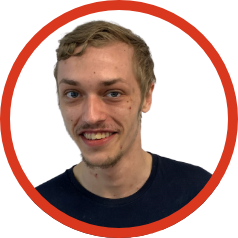
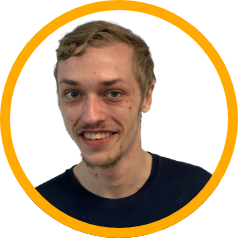
Team member img change, nav dropdown and anchor fix on water

Changed region(s): [[0.0, 0.0, 1.0, 1.0]]

diff --git a/public/css/site.css b/public/css/site.css
@@ -551,7 +551,8 @@ input:not([type=submit], [type=button], [type=reset])::-webkit-input-placeholder
 
 body.residential header,
 body.residential nav,
-body.residential #navbarSupportedContent
+body.residential #navbarSupportedContent,
+body.residential #nav-dropdown
 {
     background-color: #f3f2f1;
 }
@@ -574,7 +575,8 @@ body.residential .navigation-link-current-page
 
 body.business header,
 body.business nav,
-body.business #navbarSupportedContent
+body.business #navbarSupportedContent,
+body.business #nav-dropdown
 {
     background-color: #00c2cb;
 }

diff --git a/resources/views/other/our-team.blade.php b/resources/views/other/our-team.blade.php
@@ -150,7 +150,7 @@
     </div>
     <div class="team-wrapper row center-content">
         <!-- Business Development Managers -->
-        <div class="col-lg-2 d-none d-lg-block"></div>
+        <div class="col-lg-1 d-none d-lg-block"></div>
         <div class="col-lg-2 col-md-4 col-12 card-wrapper">
             <div class="card">
                 <img alt="" class="member-img" src="{{ asset('img/our-team/Corey-Brooks.png') }}">
@@ -164,6 +164,40 @@
         <div class="col-lg-2 col-md-4 col-12 card-wrapper">
             <div class="card">
                 <img alt="" class="member-img" src="{{ asset('img/our-team/Jack-Moore.png') }}">
+            </div>
+        </div>
+        <div class="col-lg-2 col-md-4 col-12 card-wrapper">
+            <div class="card">
+                <a class="hover-zoom" href="#" data-toggle="modal" data-target="#jonathanf">
+                    <img alt="" class="member-img" src="{{ asset('img/our-team/Jonathan-Finn.png') }}">
+                    </a>
+                    <div class="modal" id="jonathanf" tabindex="-1" role="dialog" aria-labelledby="jonathanf" aria-hidden="true">
+                        <div class="modal-dialog modal-xl modal-dialog-centered" role="document">
+                          <div class="modal-content">
+                            <div class="modal-header">
+                                <img alt="" src="{{ asset('img/our-team-avatars/johnathan-finn.png') }}" width="120" height="120">
+                                <div class="member-info">
+                                    <h5 class="modal-title" id="exampleModalLongTitle">Jonathan Finn</h5><br>
+                                    <h6> Customer Sales Advisor </h6>
+                                </div>
+                                <button type="button" class="close" data-dismiss="modal" aria-label="Close">
+                                <i class="fas fa-window-close"></i>
+                              </button>
+                            </div>
+                            <div class="modal-body business-dev">
+                                <p style="font-weight: bold">What are your hobbies and interests?</p>
+                                <p>I love street art, painting murals and keeping animals.</p>
+                                <p style="font-weight: bold">What is your best joke?</p>
+                                <p>What do you call a fake noodle?<br/>
+                                    an impasta...<br/>
+                                    I’ll be here all night.
+                                </p>
+                                <p style="font-weight: bold">What else would you like people to know about you?</p>
+                                <p>I was born and raised in the middle east.</p>
+                            </div>
+                          </div>
+                        </div>
+                    </div>
             </div>
         </div>
         <div class="col-lg-2 col-md-4 col-12 card-wrapper">
@@ -197,7 +231,7 @@
                     </div>
             </div>
         </div>
-        <div class="col-lg-2 d-none d-lg-block"></div>
+        <div class="col-lg-1 d-none d-lg-block"></div>
         <div class="col-lg-2 d-none d-lg-block"></div>
         <div class="col-lg-2 col-md-4 col-12 card-wrapper">
             <div class="card">
@@ -287,52 +321,16 @@
         </div>
         <div class="col-lg-2 col-md-4 col-12 card-wrapper">
             <div class="card">
-                <a class="hover-zoom" href="#" data-toggle="modal" data-target="#jonathanf">
-                    <img alt="" class="member-img" src="{{ asset('img/our-team/Jonathan-Finn.png') }}">
-                    </a>
-                    <div class="modal" id="jonathanf" tabindex="-1" role="dialog" aria-labelledby="jonathanf" aria-hidden="true">
-                        <div class="modal-dialog modal-xl modal-dialog-centered" role="document">
-                          <div class="modal-content">
-                            <div class="modal-header">
-                                <img alt="" src="{{ asset('img/our-team-avatars/johnathan-finn.png') }}" width="120" height="120">
-                                <div class="member-info">
-                                    <h5 class="modal-title" id="exampleModalLongTitle">Jonathan Finn</h5><br>
-                                    <h6> Customer Sales Advisor </h6>
-                                </div>
-                                <button type="button" class="close" data-dismiss="modal" aria-label="Close">
-                                <i class="fas fa-window-close"></i>
-                              </button>
-                            </div>
-                            <div class="modal-body customer-sales">
-                                <p style="font-weight: bold">What are your hobbies and interests?</p>
-                                <p>I love street art, painting murals and keeping animals.</p>
-                                <p style="font-weight: bold">What is your best joke?</p>
-                                <p>What do you call a fake noodle?<br/>
-                                    an impasta...<br/>
-                                    I’ll be here all night.
-                                </p>
-                                <p style="font-weight: bold">What else would you like people to know about you?</p>
-                                <p>I was born and raised in the middle east.</p>
-                            </div>
-                          </div>
-                        </div>
-                    </div>
-            </div>
-        </div>
-        <div class="col-lg-2 col-md-4 col-12 card-wrapper">
-            <div class="card">
                 <img alt="" class="member-img" src="{{ asset('img/our-team/Mohammad-Waheed.png') }}">
             </div>
         </div>
-        <div class="col-lg-3 d-none d-lg-block"></div>
         <!-- Data Officers -->
-        <div class="col-lg-5 d-none d-lg-block"></div>
         <div class="col-lg-2 col-md-4 col-12 card-wrapper">
             <div class="card">
                 <img alt="" class="member-img" src="{{ asset('img/our-team/Michael-Ranstead.png') }}">
             </div>
         </div>
-        <div class="col-lg-5 d-none d-lg-block"></div>
+        <div class="col-lg-3 d-none d-lg-block"></div>
         <!-- Administrators -->
         <div class="col-lg-2 d-none d-lg-block"></div>
         <div class="col-lg-2 col-md-4 col-12 card-wrapper">

diff --git a/resources/views/partials/navbar.blade.php b/resources/views/partials/navbar.blade.php
@@ -38,16 +38,16 @@
                         <a class="nav-link navigation-link {{ ($navbar_page == "my account") ? 'navigation-link-current-page' : '' }}" href="{{ route("$mode.my account") }}">My Account</a>
                     </li>
                 --}}
-                {{-- <li class="nav-item dropdown d-xl-none">
+                <li class="nav-item dropdown d-xl-none">
                     <a class="nav-link navigation-link dropdown-toggle" href="#" id="navbarDropdown" role="button" data-toggle="dropdown" aria-haspopup="true" aria-expanded="false">
                         Services
                     </a>
-                    <div class="dropdown-menu" aria-labelledby="navbarDropdown">
+                    <div id="nav-dropdown" class="dropdown-menu" aria-labelledby="navbarDropdown">
                         <a class="nav-link navigation-link {{ ($navbar_page == "connections") ? 'navigation-link-current-page' : '' }}" href="{{ route("connections") }}">Connections</a>
                         <a class="nav-link navigation-link {{ ($navbar_page == "payment-solutions") ? 'navigation-link-current-page' : '' }}" href="{{ route("payment-solutions") }}">Payment Solutions</a>
                         <a class="nav-link navigation-link {{ ($navbar_page == "business-water") ? 'navigation-link-current-page' : '' }}" href="{{ route("business.water") }}">Water</a>
                     </div>
-                </li> --}}
+                </li>
                 <div class="d-xs-block d-lg-none">
                     @include('partials.navbar-account')
                 </div>

diff --git a/resources/views/utility/business-water.blade.php b/resources/views/utility/business-water.blade.php
@@ -220,7 +220,7 @@
                     <div class="col-2 d-none d-xl-block"></div>
                 </div>
             </div>
-            <a id="sdb01" class="d-md-block d-none" href="#WaterQuestions"><span></span></a>
+            <a id="sdb01" class="d-lg-block d-none" href="#WaterQuestions"><span></span></a>
         </div>
     </div>
     <div id="WaterQuestions" class="container-xl" style="padding: 30px;">
